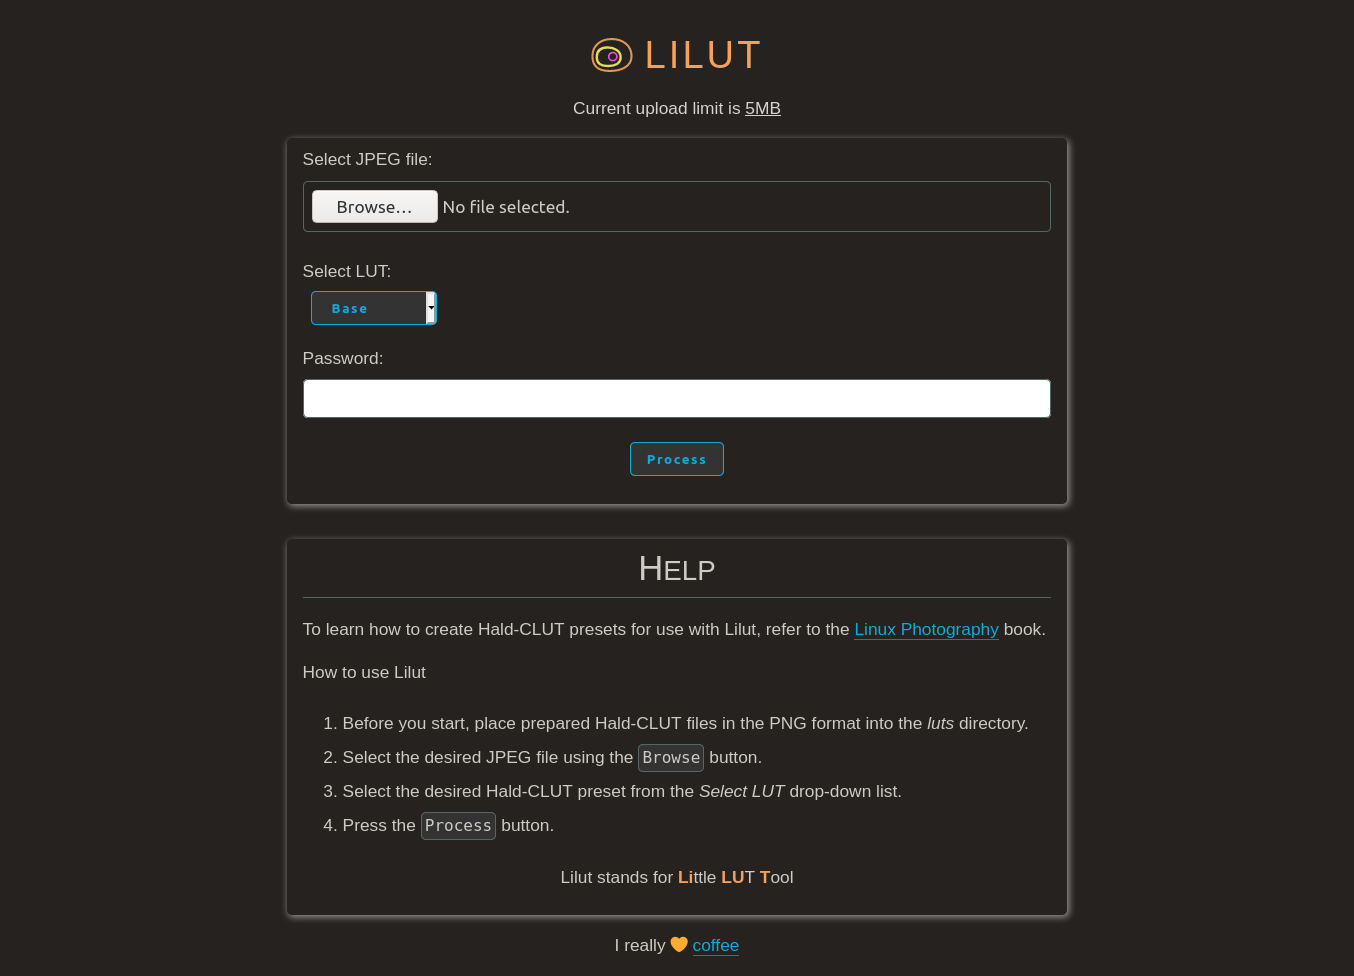
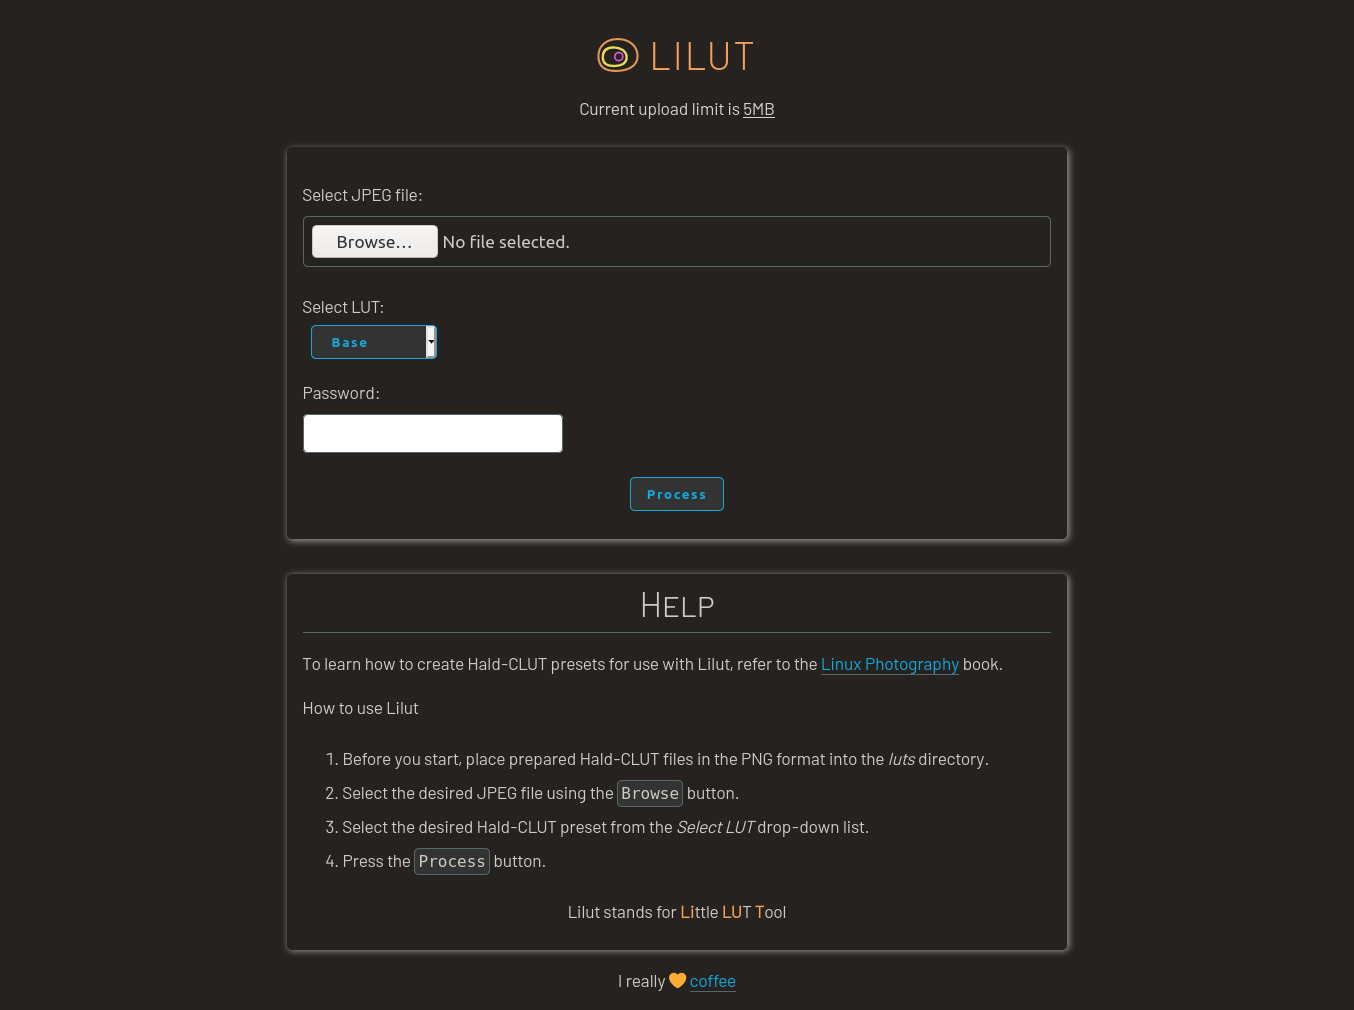
Minor cosmetic tweaks

diff --git a/index.php b/index.php
@@ -31,7 +31,7 @@ include('config.php');
 	<div style="text-align: center;">
 		<img style="display: inline; height: 2em; vertical-align: middle;" src="favicon.svg" alt="logo" />
 		<h1 class="text-center" style="display: inline; margin-left: 0.19em; vertical-align: middle; letter-spacing: 3px; margin-top: 0em; color: #f6a159ff;">LILUT</h1>
-		<p style="color: lightgray;">Current upload limit is <u><?php echo $upload_mb; ?>MB</u></p>
+		<p style="color: lightgray; margin-bottom: 1.5em;">Current upload limit is <u><?php echo $upload_mb; ?>MB</u></p>
 	</div>
 	<?php
 	if (!extension_loaded('imagick')) {
@@ -42,7 +42,7 @@ include('config.php');
 	}
 	?>
 	<div class="card">
-		<form action="process.php" method="POST" enctype="multipart/form-data">
+		<form style="margin-top: 1.5em;" action="process.php" method="POST" enctype="multipart/form-data">
 			<label for="fileToUpload">Select JPEG file:</label>
 			<input style="margin-bottom: 1.5em; margin-top: 0.5em;" type="file" name="fileToUpload" id="fileToUpload">
 			<label for="lut">Select LUT:</label><br />
@@ -58,7 +58,7 @@ include('config.php');
 			</select>
 			<br />
 			<label for="password">Password:</label><br />
-			<input style="margin-top: 0.5em;" type="password" name="password">
+			<input style="margin-top: 0.5em; width: 15em;" type="password" name="password">
 			<div class="text-center">
 				<button style="margin-bottom: 1.5em;" type="submit" name="submit">Process</button>
 			</div>
